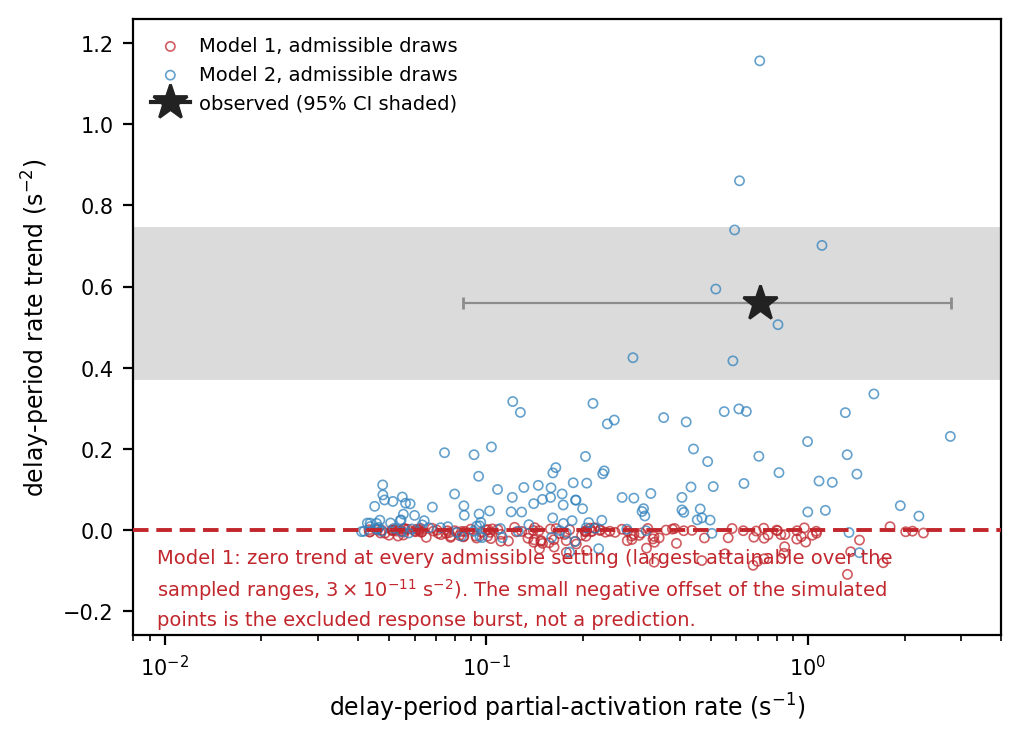
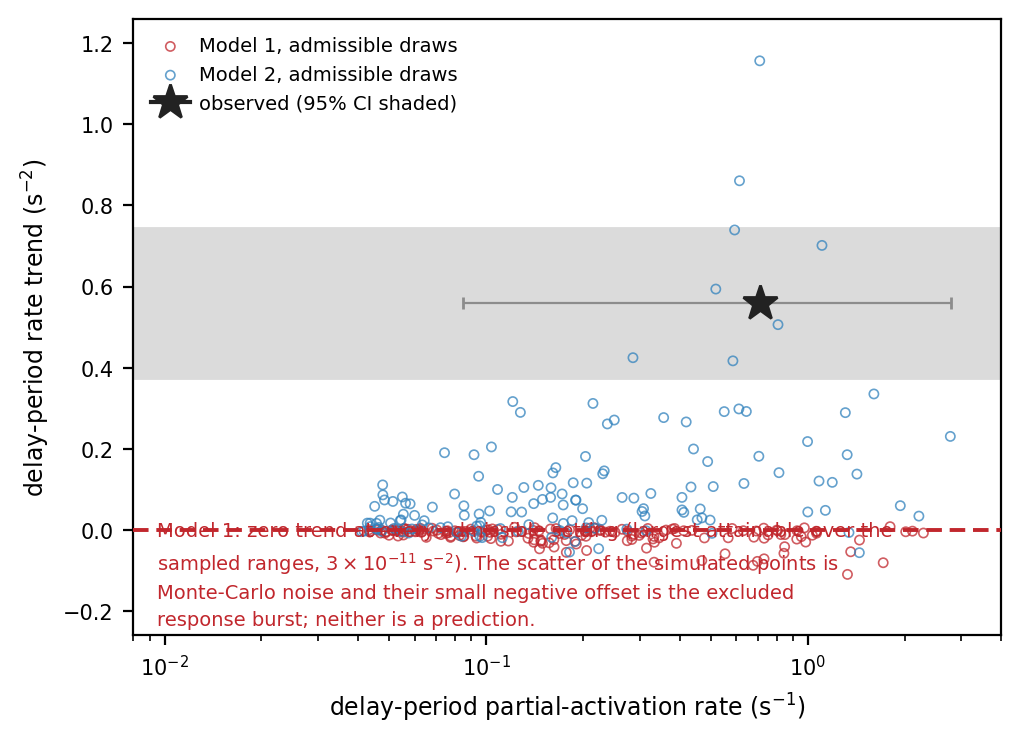
Re-run every simulation number in Results against the stationary-start sweep
Every figure quoted in Results that came from the parameter sweep is now the warm-start
value, not the cold one: the admissible counts (160 and 145, from 164 and 148), the
behavioural ranges, the two stimulus-period effects, and the premotor/motor dissociation.
Nothing outside the delay moved by more than three percentage points, which is the check
worth having -- the change of initial condition should not have touched them, and it did
not.

Two claims in the delay paragraph were wrong and are corrected. Model 1's largest
simulated trend, +0.007, was attributed to the response-burst exclusion; that artefact is
systematically negative and cannot produce a positive maximum. It is Monte-Carlo noise:
the per-draw standard error is 0.004, so a set of exactly-zero trends yields a maximum of
that size over 160 draws. The artefact explains the negative median instead, and the text
and the figure caption now say which is which.

Claude-Session: https://claude.ai/code/session_01Le4sDd4SvX8EGzq2iKyRoL

Changed region(s): [[0.1518, 0.712, 0.8805, 0.8668]]

diff --git a/manuscript/latex/delay.tex b/manuscript/latex/delay.tex
@@ -420,7 +420,7 @@ Figures~\ref{fig:behavior}A and~\ref{fig:behavior}B show response accuracy and m
 
 \subsubsection{\new{Simulation validation}}
 
-\new{The parameter-space evaluation gives the range of magnitudes each model can produce for each behavioral effect (Figure~\ref{fig:effects}A--C). The duration benefit on accuracy, measured as the benefit at 12\% minus the mean of the benefits at 0\% and 50\%, was 0.075 $\pm$ 0.014 in the data, against ranges of 0.012 to 0.197 for Model 1 and 0.020 to 0.208 for Model 2. The duration effect on response time was 49 $\pm$ 6 ms, against 2 to 86 ms and 1 to 92 ms; the coherence $\times$ duration interaction on it (the coherence effect after the short stimulus minus the coherence effect after the long one, as predicted above) was +15 $\pm$ 8 ms, against 1 to 82 ms and 1 to 76 ms.} \new{Each of these effects is significantly of the observed sign at 89\% or more of each model's admissible draws and} \new{significantly against it at 3\% or fewer.} \new{On every behavioral effect the observed value falls inside both models' ranges, and the two ranges are barely distinguishable from one another, which is the quantitative form of the same point: $\beta$ cannot move any of these quantities, so no behavioral measure separates the models at any parameter setting. The ranges are wide because they describe what a model can do across its whole admissible space.}
+\new{The parameter-space evaluation gives the range of magnitudes each model can produce for each behavioral effect (Figure~\ref{fig:effects}A--C). The duration benefit on accuracy, measured as the benefit at 12\% minus the mean of the benefits at 0\% and 50\%, was 0.075 $\pm$ 0.014 in the data, against ranges of 0.015 to 0.196 for Model 1 and 0.017 to 0.204 for Model 2. The duration effect on response time was 49 $\pm$ 6 ms, against 1 to 80 ms and 1 to 85 ms; the coherence $\times$ duration interaction on it (the coherence effect after the short stimulus minus the coherence effect after the long one, as predicted above) was +15 $\pm$ 8 ms, against 1 to 78 ms and 1 to 77 ms.} \new{Each of these effects is significantly of the observed sign at 89\% or more of each model's admissible draws and} \new{significantly against it at 3\% or fewer.} \new{On every behavioral effect the observed value falls inside both models' ranges, and the two ranges are barely distinguishable from one another, which is the quantitative form of the same point: $\beta$ cannot move any of these quantities, so no behavioral measure separates the models at any parameter setting. The ranges are wide because they describe what a model can do across its whole admissible space.}
 
 \subsection{\new{Stimulus-onset-locked}}
 
@@ -453,9 +453,9 @@ Figure~\ref{fig:pmaeeg}C shows the LRP for each condition and period. Although t
 
 \new{Two quantities from this window were evaluated over the parameter space: the coherence effect, which both models predict and which therefore serves as a control (Figure~\ref{fig:effects}D), and the duration effect, on which they disagree (Figure~\ref{fig:effects}E).}
 
-\new{Take the control first. The shared architecture predicts} \new{the stimulus-period partial-activation rate to be higher at high coherence in both models, and it is: the rate at 50\% coherence minus the rate at 0\% was +0.054 $\pm$ 0.020 s\textsuperscript{-1} in the data, against 0.009 to 0.651 s\textsuperscript{-1} over Model 1's admissible draws and 0.001 to 0.388 over Model 2's, with the observed sign significant at 98\% and 93\% of them and the opposite sign at none.}
+\new{Take the control first. The shared architecture predicts} \new{the stimulus-period partial-activation rate to be higher at high coherence in both models, and it is: the rate at 50\% coherence minus the rate at 0\% was +0.054 $\pm$ 0.020 s\textsuperscript{-1} in the data, against 0.012 to 0.686 s\textsuperscript{-1} over Model 1's admissible draws and 0.001 to 0.416 over Model 2's, with the observed sign significant at 98\% and 93\% of them and the opposite sign at none.}
 
-\new{The duration effect on the stimulus-period partial-activation rate (the rate after the 0.3 s stimulus minus the rate after the 2 s stimulus, over the same 0 to 2 s window used for the data) was +0.057 $\pm$ 0.015 s\textsuperscript{-1}. Model 1 produces a significantly negative effect at 95\% of its admissible draws and a significantly positive one at none (5th to 95th percentile $-$0.324 to $-$0.004 s\textsuperscript{-1}), which is what Model 1 predicts and what makes the observation incompatible with it. Model 2 produces the observed sign at 39\% of its draws and the opposite sign at 45\% ($-$0.214 to +0.036 s\textsuperscript{-1}): temporal preparation opposes the level effect, as the derivation says, but does not generally overturn it,} \new{because the size of temporal preparation and the distance to the gate are independent parameters. Its largest value, +0.129 s\textsuperscript{-1}, is more than twice the observation, so Model 2 can reach the observation even though most of its admissible space does not.} \new{The test is therefore one-sided. It refutes Model 1; it does not by itself confirm Model 2.}
+\new{The duration effect on the stimulus-period partial-activation rate (the rate after the 0.3 s stimulus minus the rate after the 2 s stimulus, over the same 0 to 2 s window used for the data) was +0.057 $\pm$ 0.015 s\textsuperscript{-1}. Model 1 produces a significantly negative effect at 96\% of its admissible draws and a significantly positive one at none (5th to 95th percentile $-$0.340 to $-$0.007 s\textsuperscript{-1}), which is what Model 1 predicts and what makes the observation incompatible with it. Model 2 produces the observed sign at 33\% of its draws and the opposite sign at 50\% ($-$0.217 to +0.043 s\textsuperscript{-1}): temporal preparation opposes the level effect, as the derivation says, but does not generally overturn it,} \new{because the size of temporal preparation and the distance to the gate are independent parameters. Its largest value, +0.130 s\textsuperscript{-1}, is more than twice the observation, so Model 2 can reach the observation even though most of its admissible space does not.} \new{The test is therefore one-sided. It refutes Model 1; it does not by itself confirm Model 2.}
 
 
 \subsection{\new{Stimulus-offset-locked}}
@@ -555,7 +555,7 @@ During the delay, however, the analysis showed a clear effect of time bin \new{(
 
 \new{Behavior left the two models nearly indistinguishable (Behavior, above), as the shared architecture implies it must. The delay-period rate profile is where they separate, and the separation is not a matter of degree. Model 1's delay-period trend is zero (Corollary~\ref{cor:flat}); evaluated over the ranges of Table~\ref{tab:params}, the largest value the formula returns anywhere in the sampled space is} \new{$3\times {10}^{-11}$} \new{s\textsuperscript{-2}, which is zero to numerical precision.}
 
-\new{The simulations bear this out. Over the 160 admissible draws of Model 1 the delay-period trend has a median of} \new{$-0.007$} \new{s\textsuperscript{-2} and a 5th to 95th percentile range of} \new{$-0.058$} \new{to} \new{$+0.004$}\new{, with a largest value over all draws of} \new{$+0.007$}\new{. The observed trend is} \new{$+0.560$} \new{s\textsuperscript{-2}, seventy-five times that largest value; and the largest value is itself an artefact of the measurement rather than a property of the architecture, since the exclusion of the response-related activation from the last bins of the window perturbs the estimate in both directions by about this much (Appendix, Remark~\ref{rem:scope}). Over the 145 admissible draws of Model 2 the trend has a median of} \new{$+0.052$}\new{, a 5th to 95th percentile range of} \new{$-0.017$} \new{to} \new{$+0.418$}\new{, and a maximum of} \new{$+1.157$}\new{. The observed value falls at the 96.6th percentile of that distribution, and 6 of the 145 draws reproduce it within its between-participant 95\% confidence interval while also producing a delay-period activation rate inside the range participants span.}
+\new{The simulations bear this out. Over the 160 admissible draws of Model 1 the delay-period trend has a median of} \new{$-0.007$} \new{s\textsuperscript{-2} and a 5th to 95th percentile range of} \new{$-0.058$} \new{to} \new{$+0.004$}\new{, with a largest value over all draws of} \new{$+0.007$}\new{. The observed trend is} \new{$+0.560$} \new{s\textsuperscript{-2}, seventy-five times that largest value; and that largest value is Monte-Carlo noise rather than a property of the architecture, since the Monte-Carlo standard error on a single draw's trend is 0.004 s\textsuperscript{-2}, so a set of draws whose true trend is exactly zero produces a maximum of about this size over 160 of them. The negative median has a cause of its own, and it too belongs to the measurement rather than to the model: the activation that becomes the overt response is excluded from the count wherever it begins, which in the model occasionally places it inside the last bins of the window (Appendix, Remark~\ref{rem:scope}). Over the 145 admissible draws of Model 2 the trend has a median of} \new{$+0.052$}\new{, a 5th to 95th percentile range of} \new{$-0.017$} \new{to} \new{$+0.418$}\new{, and a maximum of} \new{$+1.157$}\new{. The observed value falls at the 96.6th percentile of that distribution, and 6 of the 145 draws reproduce it within its between-participant 95\% confidence interval while also producing a delay-period activation rate inside the range participants span.}
 
 \new{Two further comparisons say the same thing without depending on any threshold. Asking of each draw whether all six of its condition trends are significantly positive, as they are in the data, Model 2 satisfies this in 78 of 145 admissible draws and Model 1 in 0 of 160. Classifying each draw against its Monte-Carlo error, Model 1's trend is significantly positive at 1\% of draws, significantly negative at 51\%, and indistinguishable from zero at the remaining 49\%; Model 2's is significantly positive at 80\%, negative at 10\%, and flat at 10\% (Figure~\ref{fig:effects}I).}
 
@@ -607,7 +607,7 @@ This coherence-independent ramping activity persisted after the RS \new{(F(1,21)
 
 \new{The closed-form rate of the Appendix does not apply} \new{after the response signal: the criterion now acts as an absorbing barrier, and conditioning on survival destroys the Gaussianity on which} \new{Equation \eqref{eq:nu_asymp}} \new{depends.}
 
-\new{The parameter-space evaluation constrains this window through the dissociation between the two components of response time (Figure~\ref{fig:effects}F and~G). The conditions are predicted to move the premotor component and to leave the motor component alone, since nothing in either model makes the passage from the gate to the response criterion depend on coherence or duration. In the data the duration effect on premotor execution time was +49 $\pm$ 6 ms and} \new{the duration effect on motor execution time was $-$0.5 $\pm$ 0.8 ms}\new{.} \new{Both models produce the premotor effect (Model 1, 3 to 108 ms; Model 2, 2 to 126 ms)} \new{and both leave the motor component nearly alone ($-$46 to 0 ms and $-$62 to $-$1 ms). The dissociation is therefore reproduced, though not exactly: the models do not leave the motor component strictly alone. Its duration effect is significantly below zero at 87\% and 86\% of admissible draws, with medians of $-$5 and $-$8 ms, where the data give an effect indistinguishable from zero. The discrepancy is small, a few milliseconds on a component whose mean is 161 ms, but it is systematic, and it says that the passage from the gate to the response criterion is slightly faster in the simulation after the short stimulus than after the long one, whereas in the muscle it is not.}
+\new{The parameter-space evaluation constrains this window through the dissociation between the two components of response time (Figure~\ref{fig:effects}F and~G). The conditions are predicted to move the premotor component and to leave the motor component alone, since nothing in either model makes the passage from the gate to the response criterion depend on coherence or duration. In the data the duration effect on premotor execution time was +49 $\pm$ 6 ms and} \new{the duration effect on motor execution time was $-$0.5 $\pm$ 0.8 ms}\new{.} \new{Both models produce the premotor effect (Model 1, 2 to 108 ms; Model 2, 2 to 129 ms)} \new{and both leave the motor component nearly alone ($-$46 to 0 ms and $-$60 to $-$1 ms). The dissociation is therefore reproduced, though not exactly: the models do not leave the motor component strictly alone. Its duration effect is significantly below zero at 86\% and 88\% of admissible draws, with medians of $-$5 and $-$8 ms, where the data give an effect indistinguishable from zero. The discrepancy is small, a few milliseconds on a component whose mean is 161 ms, but it is systematic, and it says that the passage from the gate to the response criterion is slightly faster in the simulation after the short stimulus than after the long one, whereas in the muscle it is not.}
 
 
 \subsection{\new{Response-locked}}
@@ -683,7 +683,7 @@ In conclusion, delayed decision reports are not generated by storing an abstract
 
 \begin{center}\includegraphics[width=\linewidth]{figures/fig09.png}\end{center}
 
-\captionof{figure}{\new{\textbf{The two quantities the delay period requires, with the sampled parameter space on them.}} \new{Horizontal axis, the delay-period partial-activation rate (logarithmic); vertical axis, the linear trend of that rate across the analysis window. Open circles are the admissible draws of each model; the star is the observation, with the horizontal bar spanning the observed participant $\times$ condition rates and the grey band the between-participant 95\% confidence interval on the trend. The dashed line is Model 1's prediction, which is exactly zero at every admissible parameter setting (Appendix, Corollary~\ref{cor:flat}); the scatter of its draws about that line is the measurement artefact of Remark~\ref{rem:scope}, not a range of predictions. The panel needs no computed frontier for that reason: the boundary of what Model 1 can produce is the line itself.}}\label{fig:ratetrend}
+\captionof{figure}{\new{\textbf{The two quantities the delay period requires, with the sampled parameter space on them.}} \new{Horizontal axis, the delay-period partial-activation rate (logarithmic); vertical axis, the linear trend of that rate across the analysis window. Open circles are the admissible draws of each model; the star is the observation, with the horizontal bar spanning the observed participant $\times$ condition rates and the grey band the between-participant 95\% confidence interval on the trend. The dashed line is Model 1's prediction, which is exactly zero at every admissible parameter setting (Appendix, Corollary~\ref{cor:flat}); the scatter of its draws about that line is Monte-Carlo noise and their small downward offset is the measurement artefact of Remark~\ref{rem:scope}, neither being a range of predictions. The panel needs no computed frontier for that reason: the boundary of what Model 1 can produce is the line itself.}}\label{fig:ratetrend}
 
 \begin{center}\includegraphics[width=\linewidth]{figures/fig10.png}\end{center}
 

diff --git a/scripts/figures_space.py b/scripts/figures_space.py
@@ -105,8 +105,7 @@ def fig_rate_trend(fname=None):
     # are conservative and Model 1's departure from zero is entirely accounted for.
     ax.text(0.0095, -0.245, 'Model 1: zero trend at every admissible setting (largest '
                             'attainable over the\nsampled ranges, $3\\times10^{-11}$ '
-                            's$^{-2}$). The small negative offset of the simulated\npoints '
-                            'is the excluded response burst, not a prediction.',
+                            's$^{-2}$). The scatter of the simulated points is\nMonte-Carlo noise and their small negative offset is the excluded\nresponse burst; neither is a prediction.',
             color=C_M1, fontsize=7.0, va='bottom', linespacing=1.5)
     ax.axhspan(*OBS_TCI, color='0.86', zorder=0)
     ax.errorbar([OBS_RATE], [OBS_TREND],
